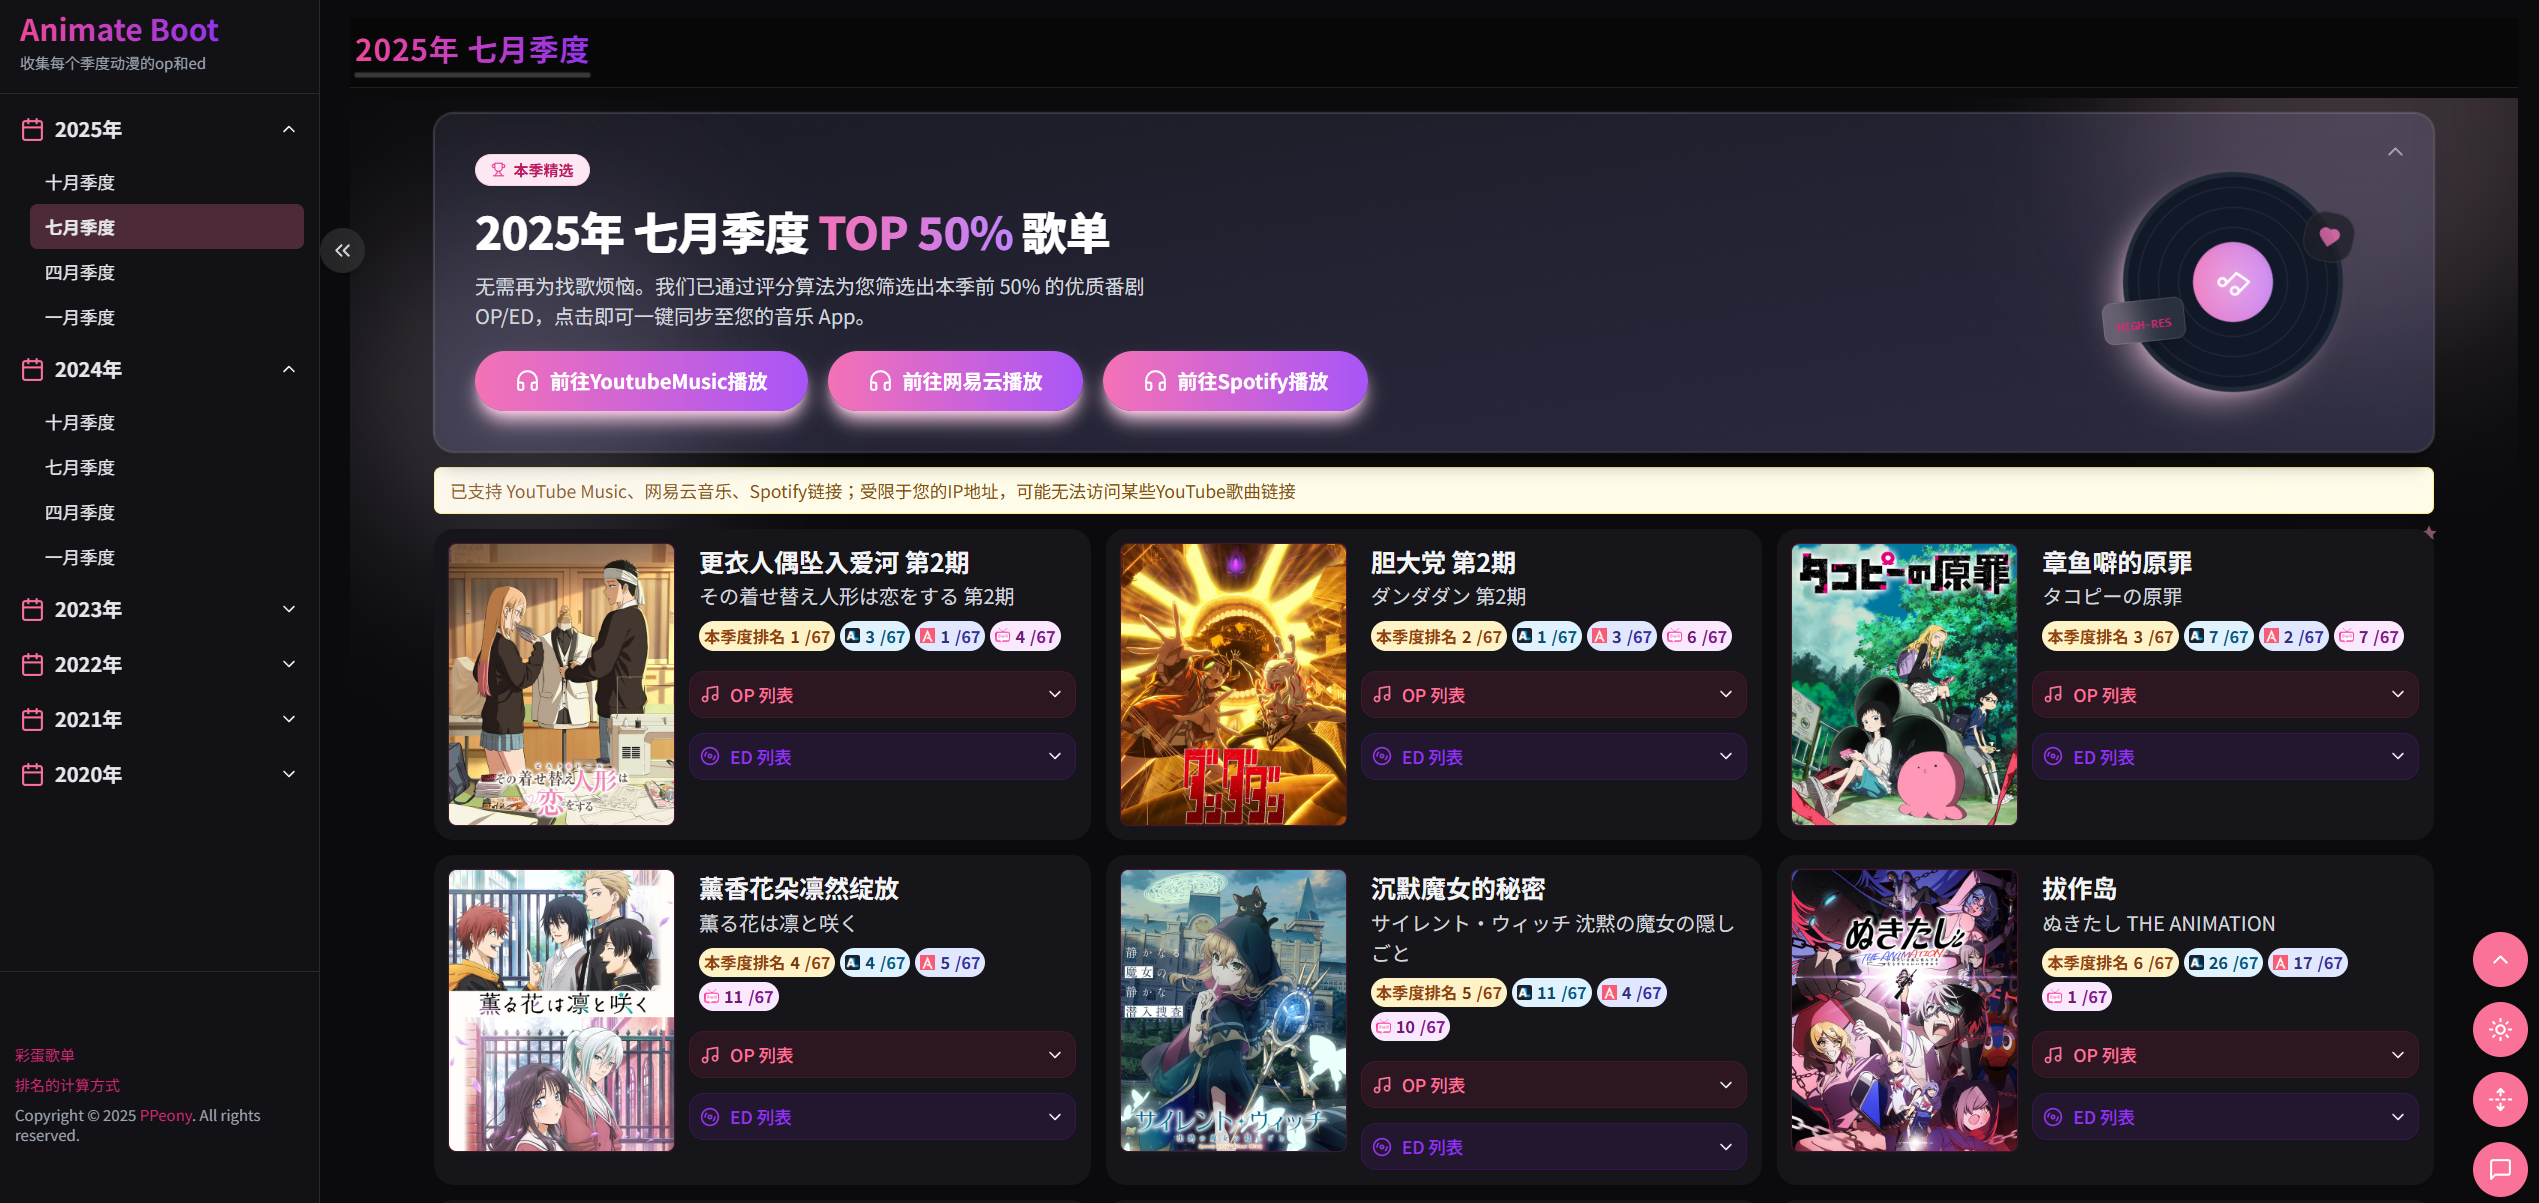
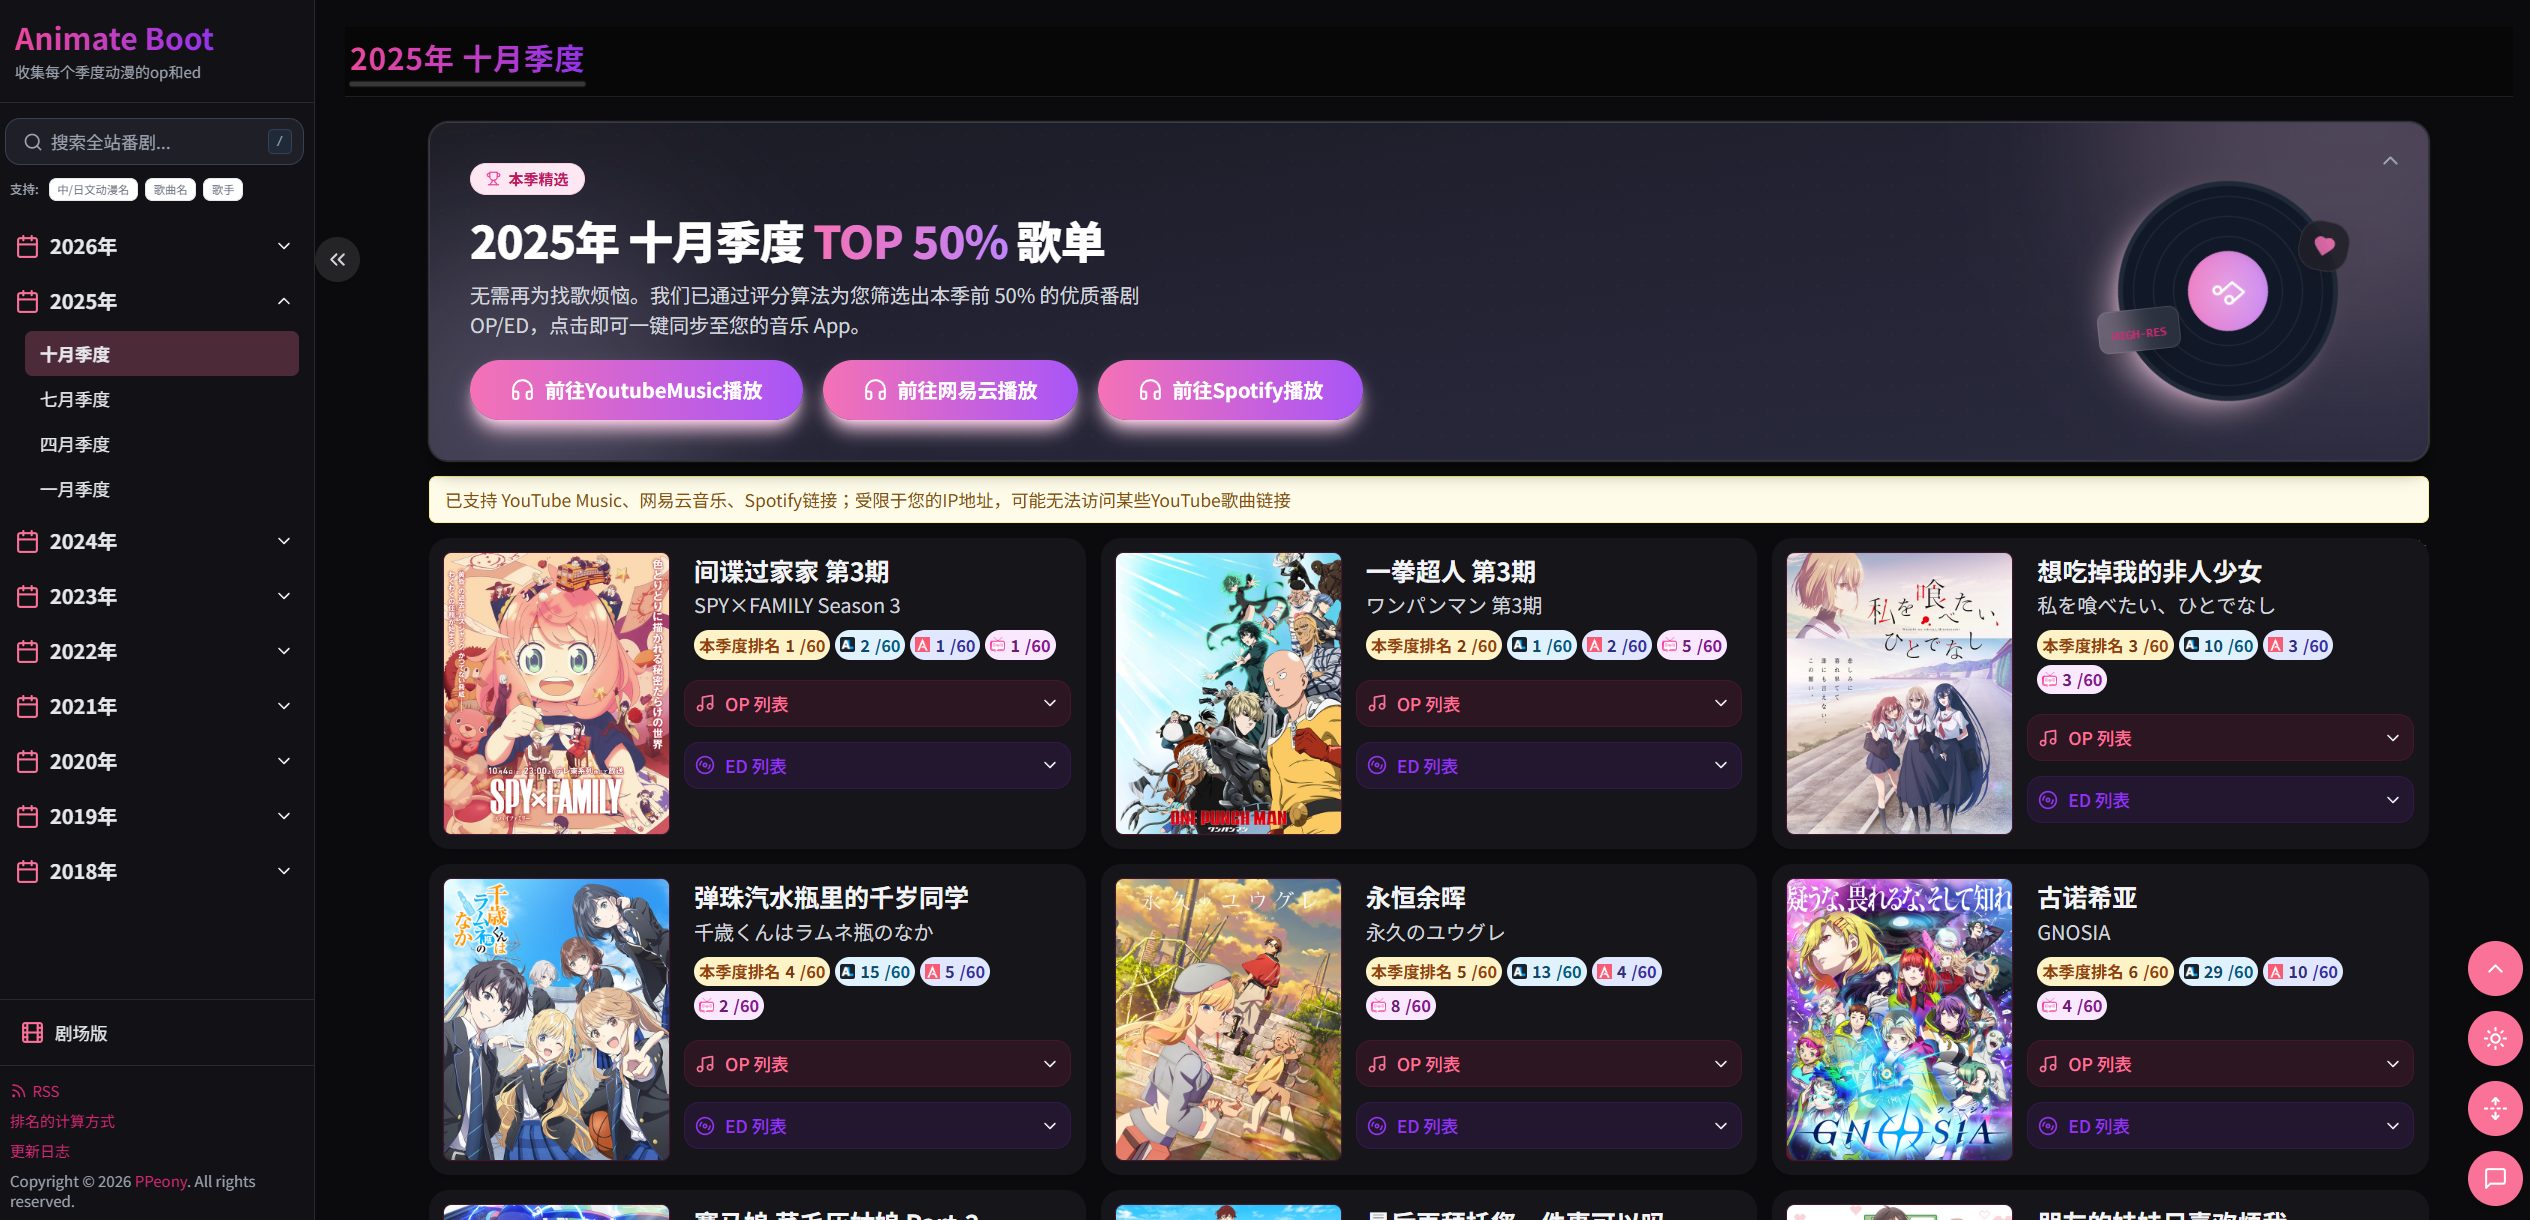
增加功能

diff --git a/README.md b/README.md
@@ -15,9 +15,17 @@
 - 日本标准是Annict
 - 中国标准是Bangumi
 
+## 支持系列功能
+![ui-light](doc/img/series1.png)
+
+![ui-light](doc/img/series2.png)
+
+## 支持搜索功能
+调用search saas服务，支持模糊搜索。
+
 点击排名具体信息即可跳转
 
-当前最早收录到2020年
+当前最早收录到2018年
 
 ## 反馈
 点击页面右下角按钮即可反馈。
